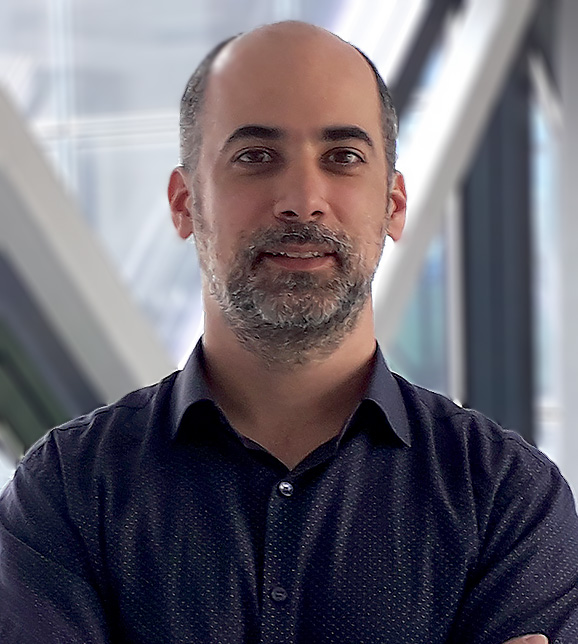
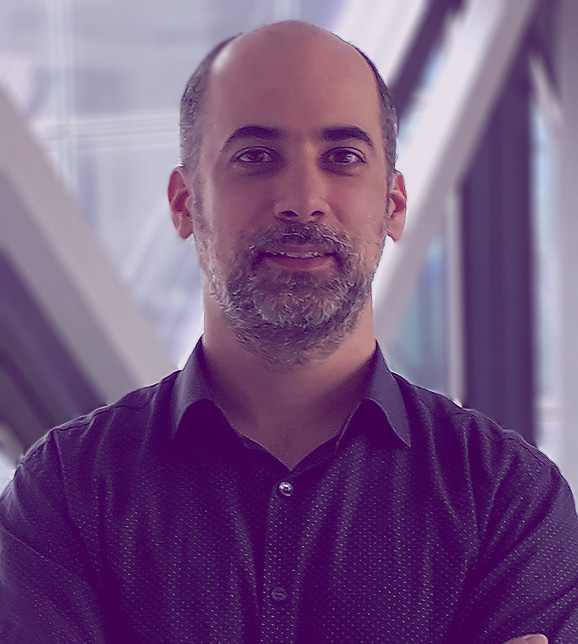
update image color, and fix size of boxes

diff --git a/index.html b/index.html
@@ -268,37 +268,38 @@ from technical concept and PoC to market ready solution.">
 
         <div id="team-members" class="row backimage">
 
-            <div id="manuel" class="col-xs-12 col-sm-6 col-md-6 col-lg-4  member">
+            <div id="manuel" class="col-xs-12 col-sm-6 col-md-6 col-lg-4 manuel member">
 
                 <div id="teamphoto">
                     <img id="mirkoimg" src="images/mirko-t.jpg" class="teamphoto" alt=""> </div>
                 <h4><b>Mirko Teodorovic – Senior Software Engineer</b></h4>
                 <p>Mirko has thirteen years of experience in development of web and enterprise applications in financial domain, working as a full stack developer in FIS Global Bussines Solutions. Over the time he gained significant experience in software development as well as system administration. He also acquired experience in hardware development working R&D for RFID card reader system. Mirko holds MSc degree in Electrical Engineering from University of Belgrade.
+                    <br>
+                    <br>
             </div>
-            
 
-            <div id="manuel" class="col-xs-12 col-sm-6 col-md-6 col-lg-4  member">
-
+            <div id="manuel" class="col-xs-12 col-sm-6 col-md-6 col-lg-4 manuel  member">
                 <div id="teamphoto">
                     <img id="savaimg" src="images/sava-rados.png" class="teamphoto" alt=""> </div>
                 <h4><b>Sava Rados – Senior Software Developer</b></h4>
-                <p>Sava has 20 years experience in software development. Enterprise applications integration via web services, by developing/utilizing middleware tools. Developing mostly on java/glassfish application server. Providing services and solutions exclusively to MTN Cyprus. Providing Linux sysadmin support including containerized apps deployment and maintenance using Docker.
-                    <br> Sava holds a B.Sc degree in Information Technology from the University of Novi Sad.</p>
+                <p>Sava has 20 years experience in software development. Enterprise applications integration via web services, by developing/utilizing middleware tools. Developing mostly on java/glassfish application server. Providing services and solutions exclusively to MTN Cyprus. Providing Linux sysadmin support including containerized apps deployment and maintenance using Docker. 
+                    <br>
+                    Sava holds a B.Sc degree in Information Technology from the University of Novi Sad.</p>
             </div>
 
-            <div id="manuel" class="col-xs-12 col-sm-6 col-md-6 col-lg-4 dusan member">
+            <div id="manuel" class="col-xs-12 col-sm-6 col-md-6 col-lg-4 manuel member">
                 <div id="teamphoto">
-                    <img id="dusanimg" src="images/dusan-no-uv.jpg" class="teamphoto" alt="">
+                    <img id="dusanimg" src="images/dusan-b.jpg" class="teamphoto" alt="">
                 </div>
                 <h4><b>Dusan Borovcanin – Software Developer</b></h4>
 
-                <p> Dušan holds MSc in software engineering from Faculty of Technical Sciences of Novi Sad. He is working as software developer with experience in web development. He is fluent in Python, Java and Go. His fields of interest include scalable distributed systems, web development and mobile development.</p>
-
-
-
-
+                <p> Dušan holds MSc in software engineering from Faculty of Technical Sciences of Novi Sad. He is working as software developer with experience in web development. He is fluent in Python, Java and Go. His fields of interest include scalable distributed systems, web development and mobile development.
+                    <br>
+                    <br>
+                    <br>
+                    <br>
+                </p>
             </div>
-
 
         </div>
 
